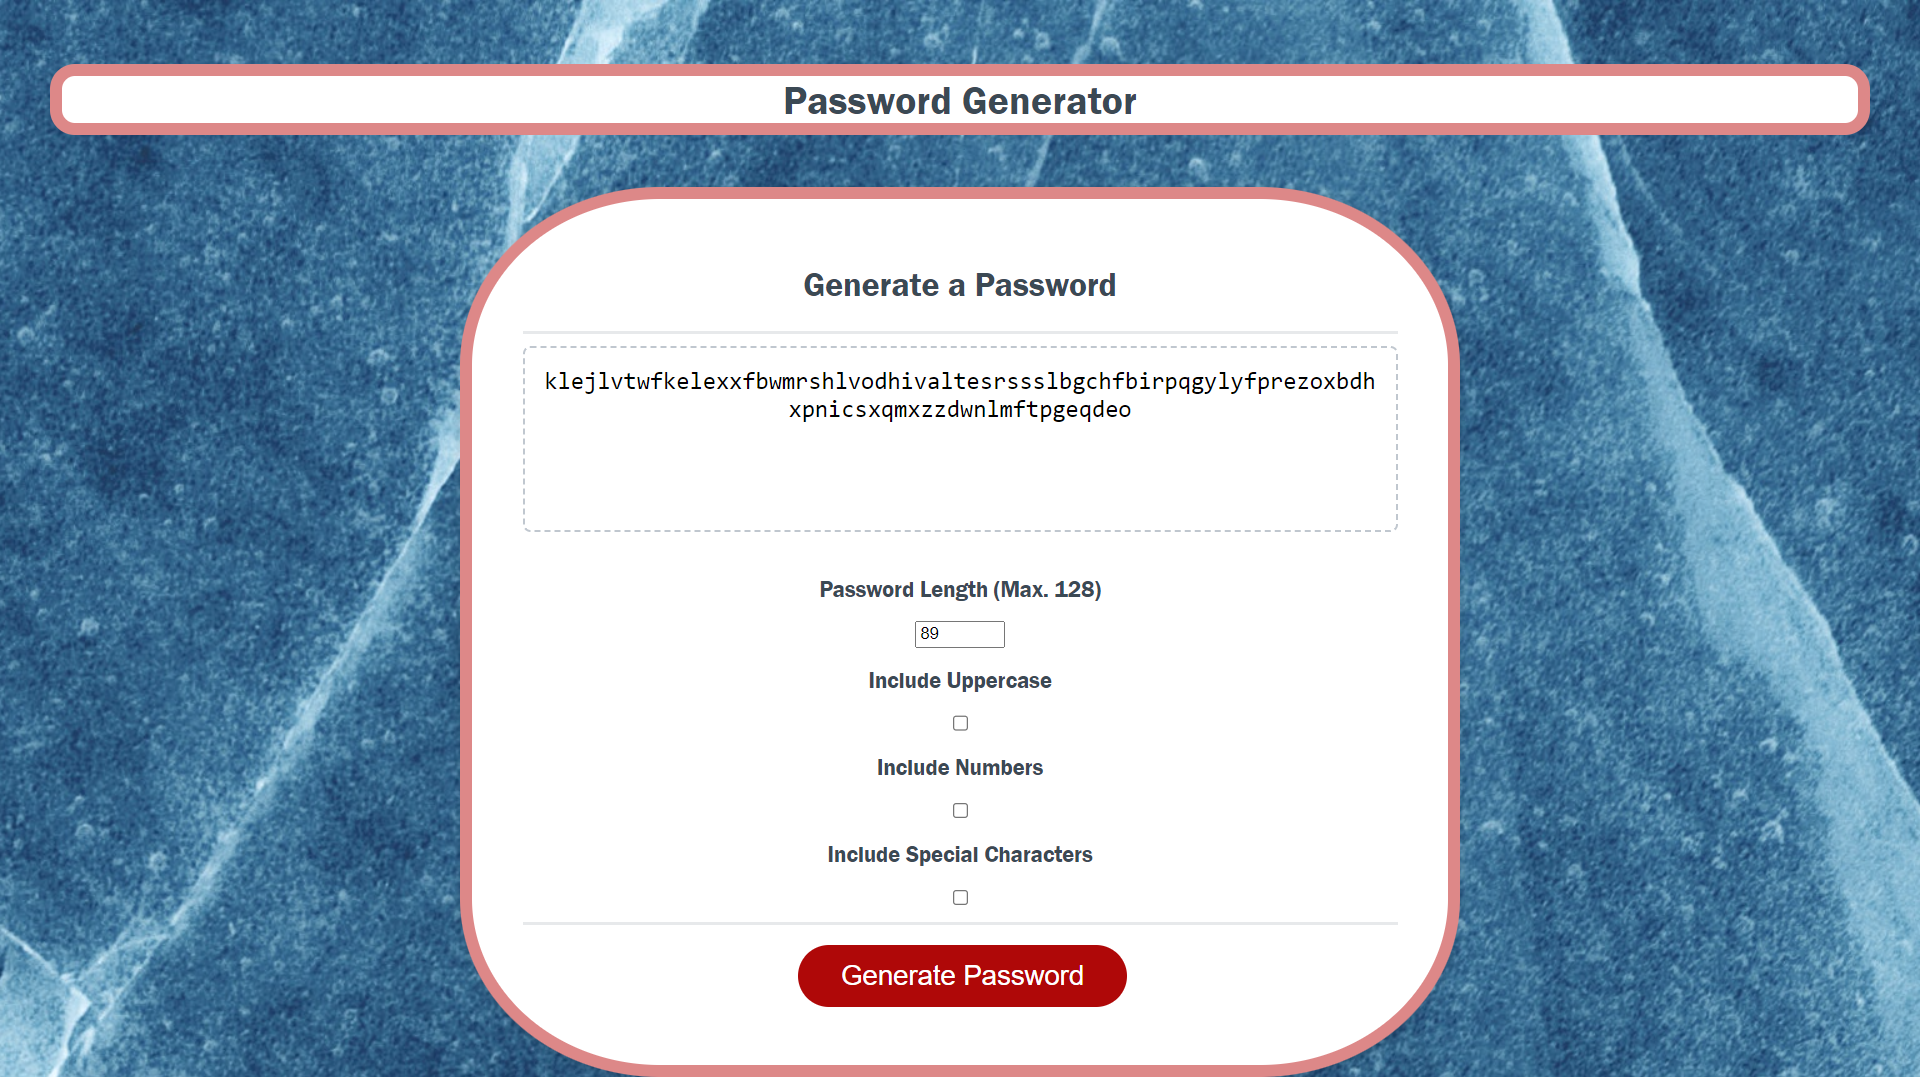
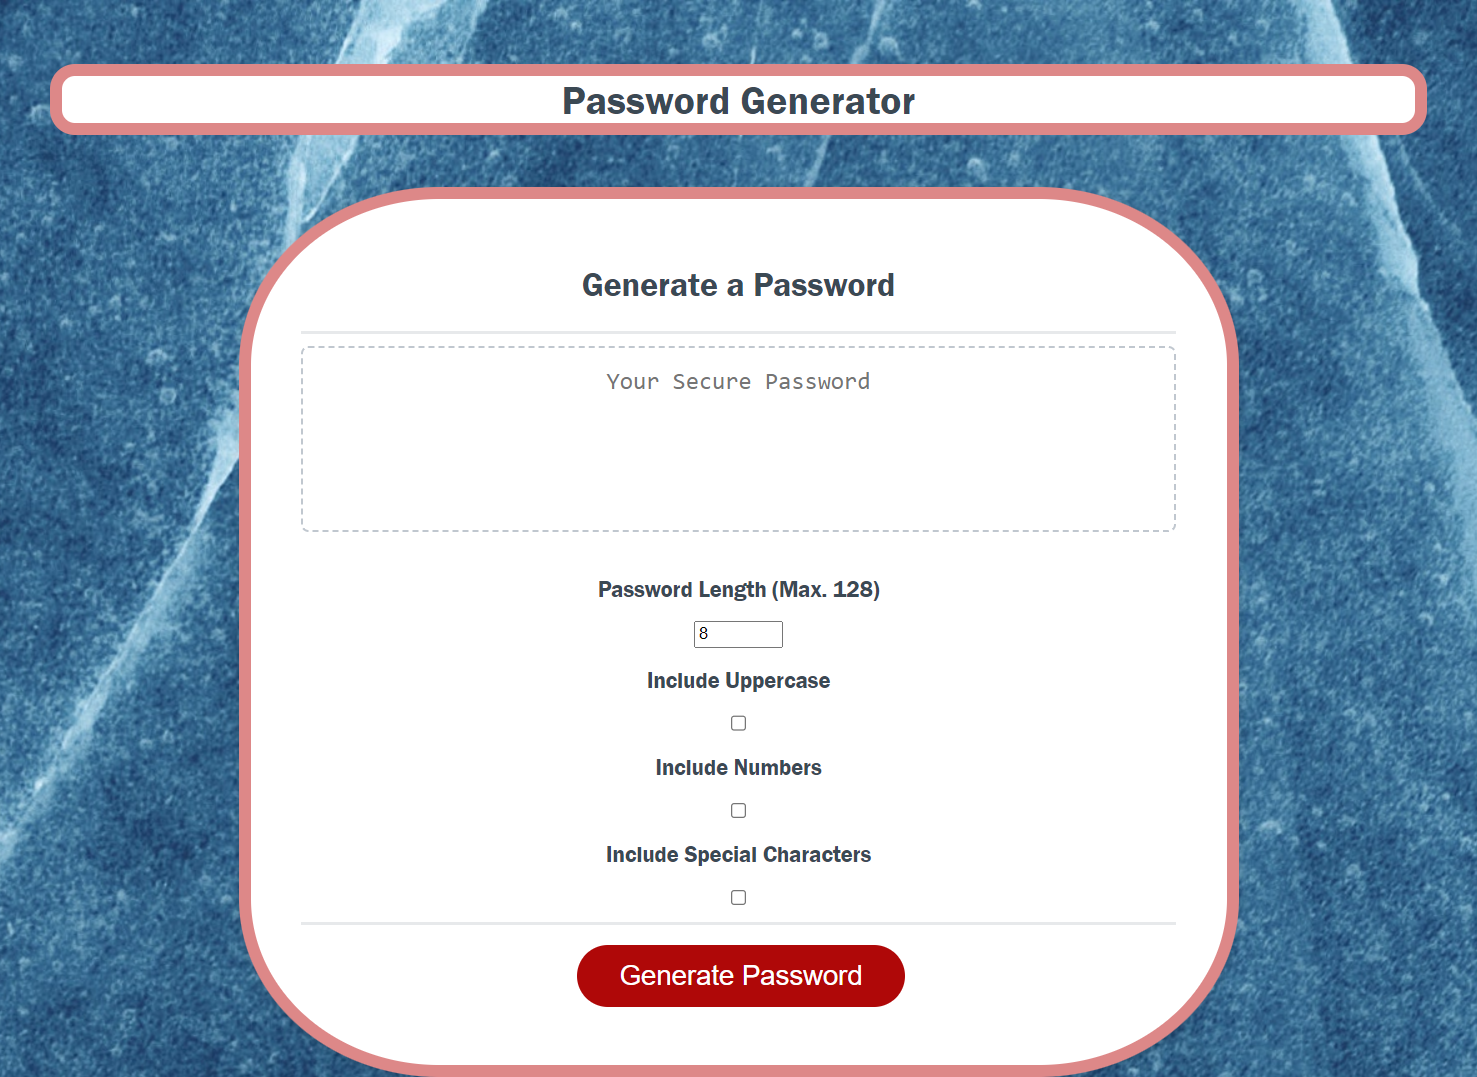
added if statment to restrict user choice of password length

diff --git a/assets/script.js b/assets/script.js
@@ -119,7 +119,14 @@ addSpecChar.addEventListener("click", function() {
 // define function generatePassword
 function generatePassword() {
     // target password length selection box and pass value to passwordLength variable
-    passwordLength= document.getElementById("numberClick").value;
+    // turn passwordLength into an integer
+    //if statment to restrict selection to any number between 8 and 128
+    passwordLength= parseInt(document.getElementById("numberClick").value);
+      if (passwordLength < 8 || passwordLength > 128) 
+      {
+        alert("Please select a number between 8 and 128");
+        return null;
+      }
     var randomPassword = "";
     // loop to create password of selected length
     for(var i = 0; i < passwordLength; i++)
@@ -129,7 +136,8 @@ function generatePassword() {
       randomPassword += validCharacters[index];
     }
     return randomPassword;
-}
+  };
+
 // Write password to the #password input
 function writePassword() {
     var password = generatePassword();
